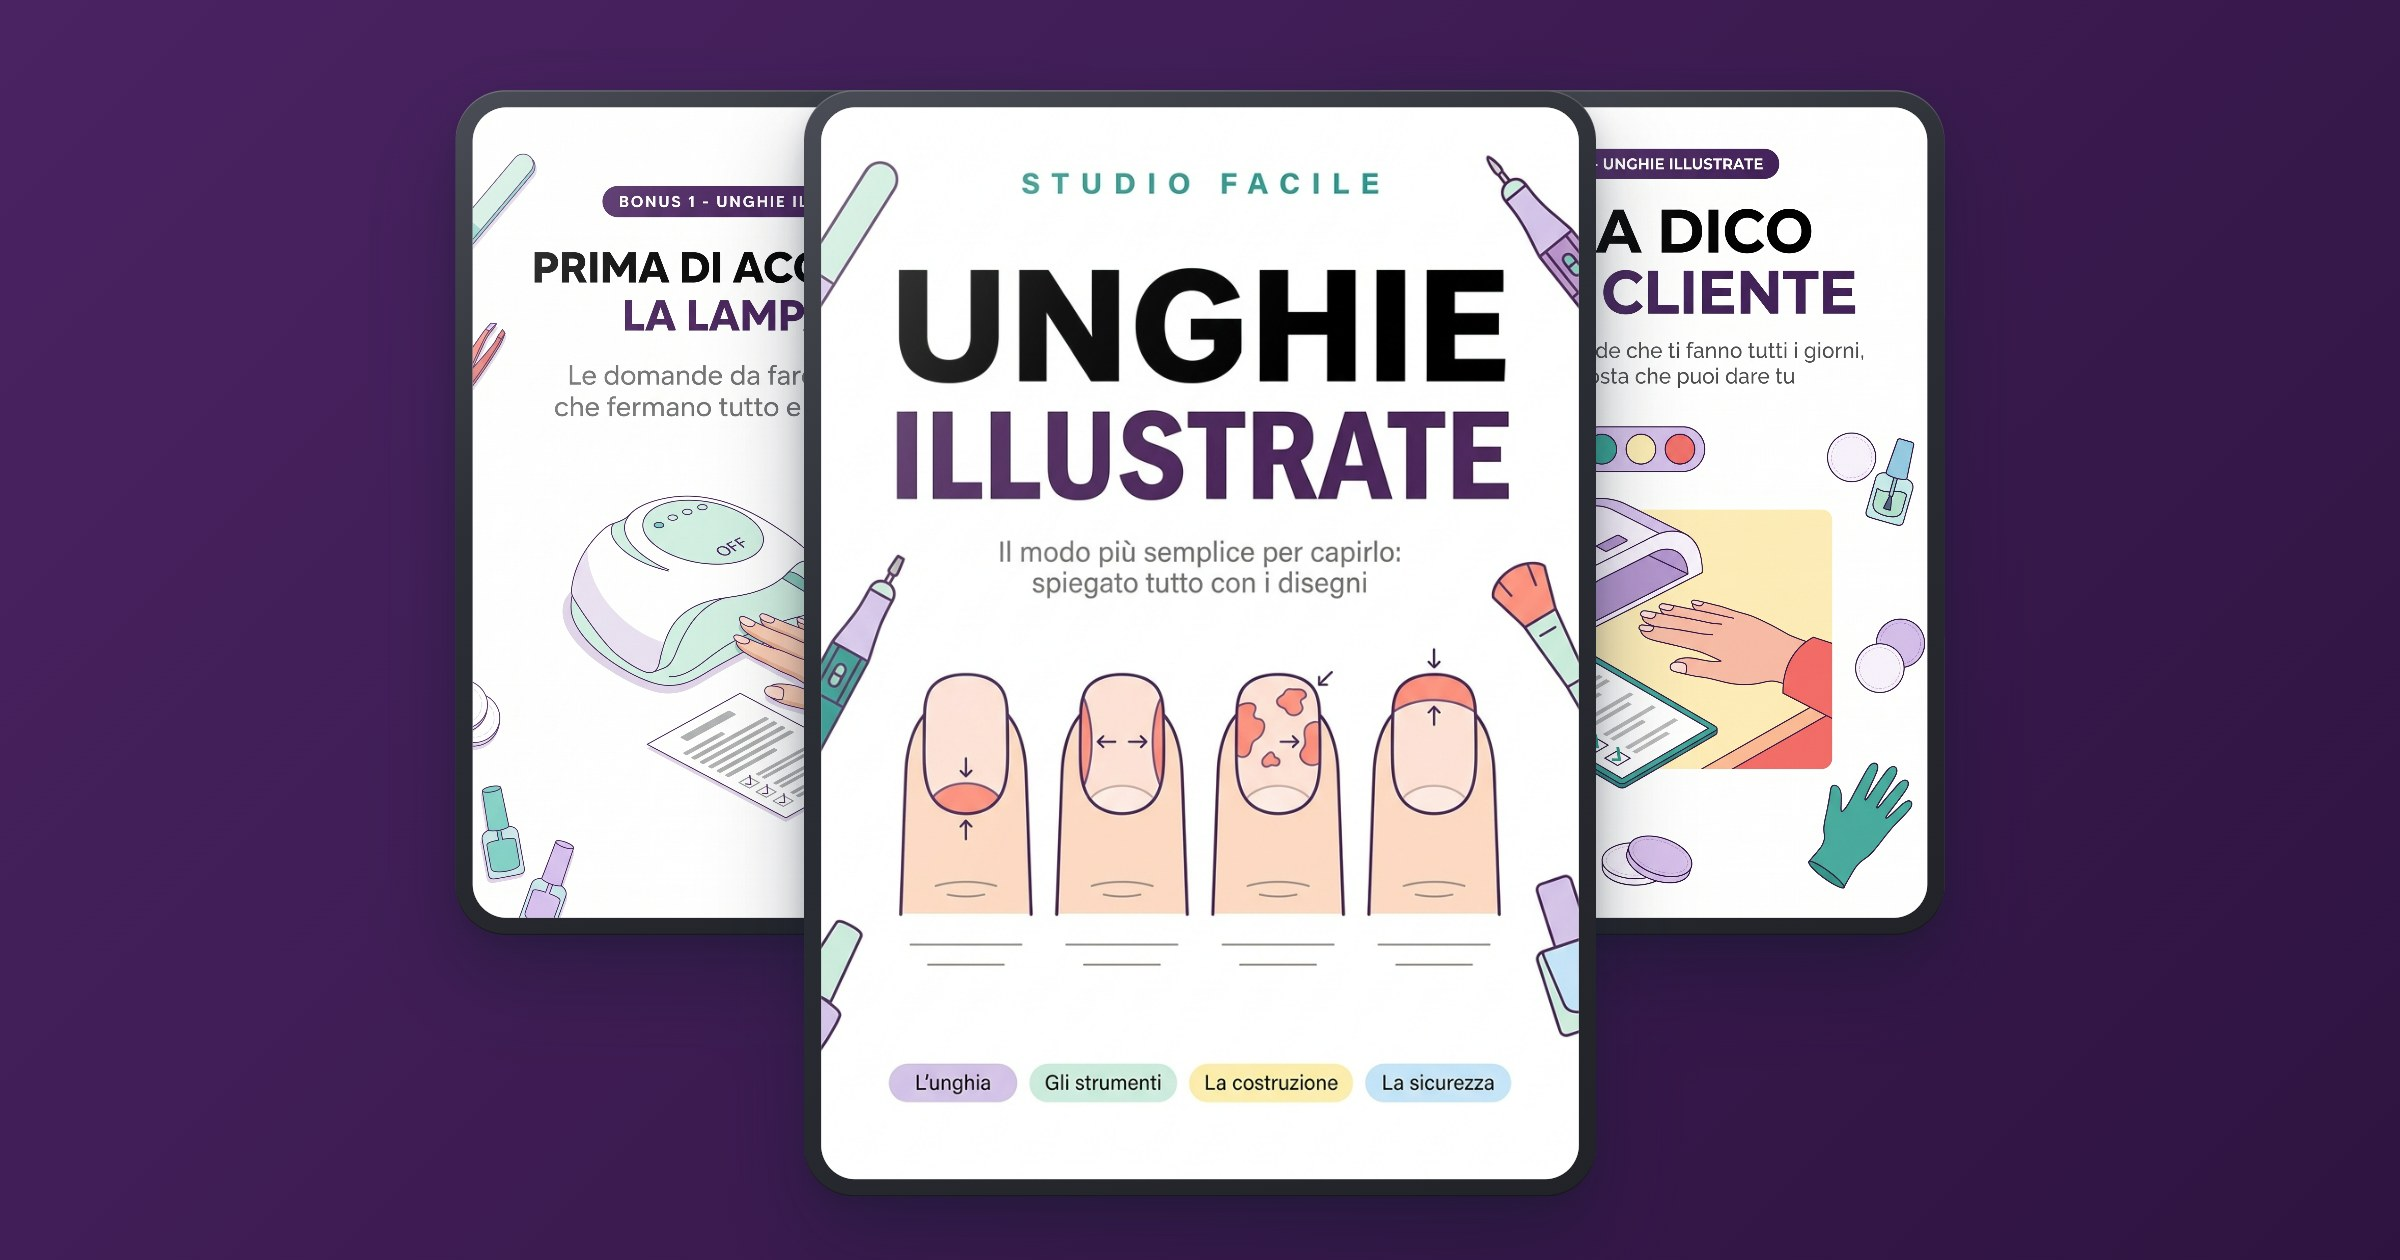
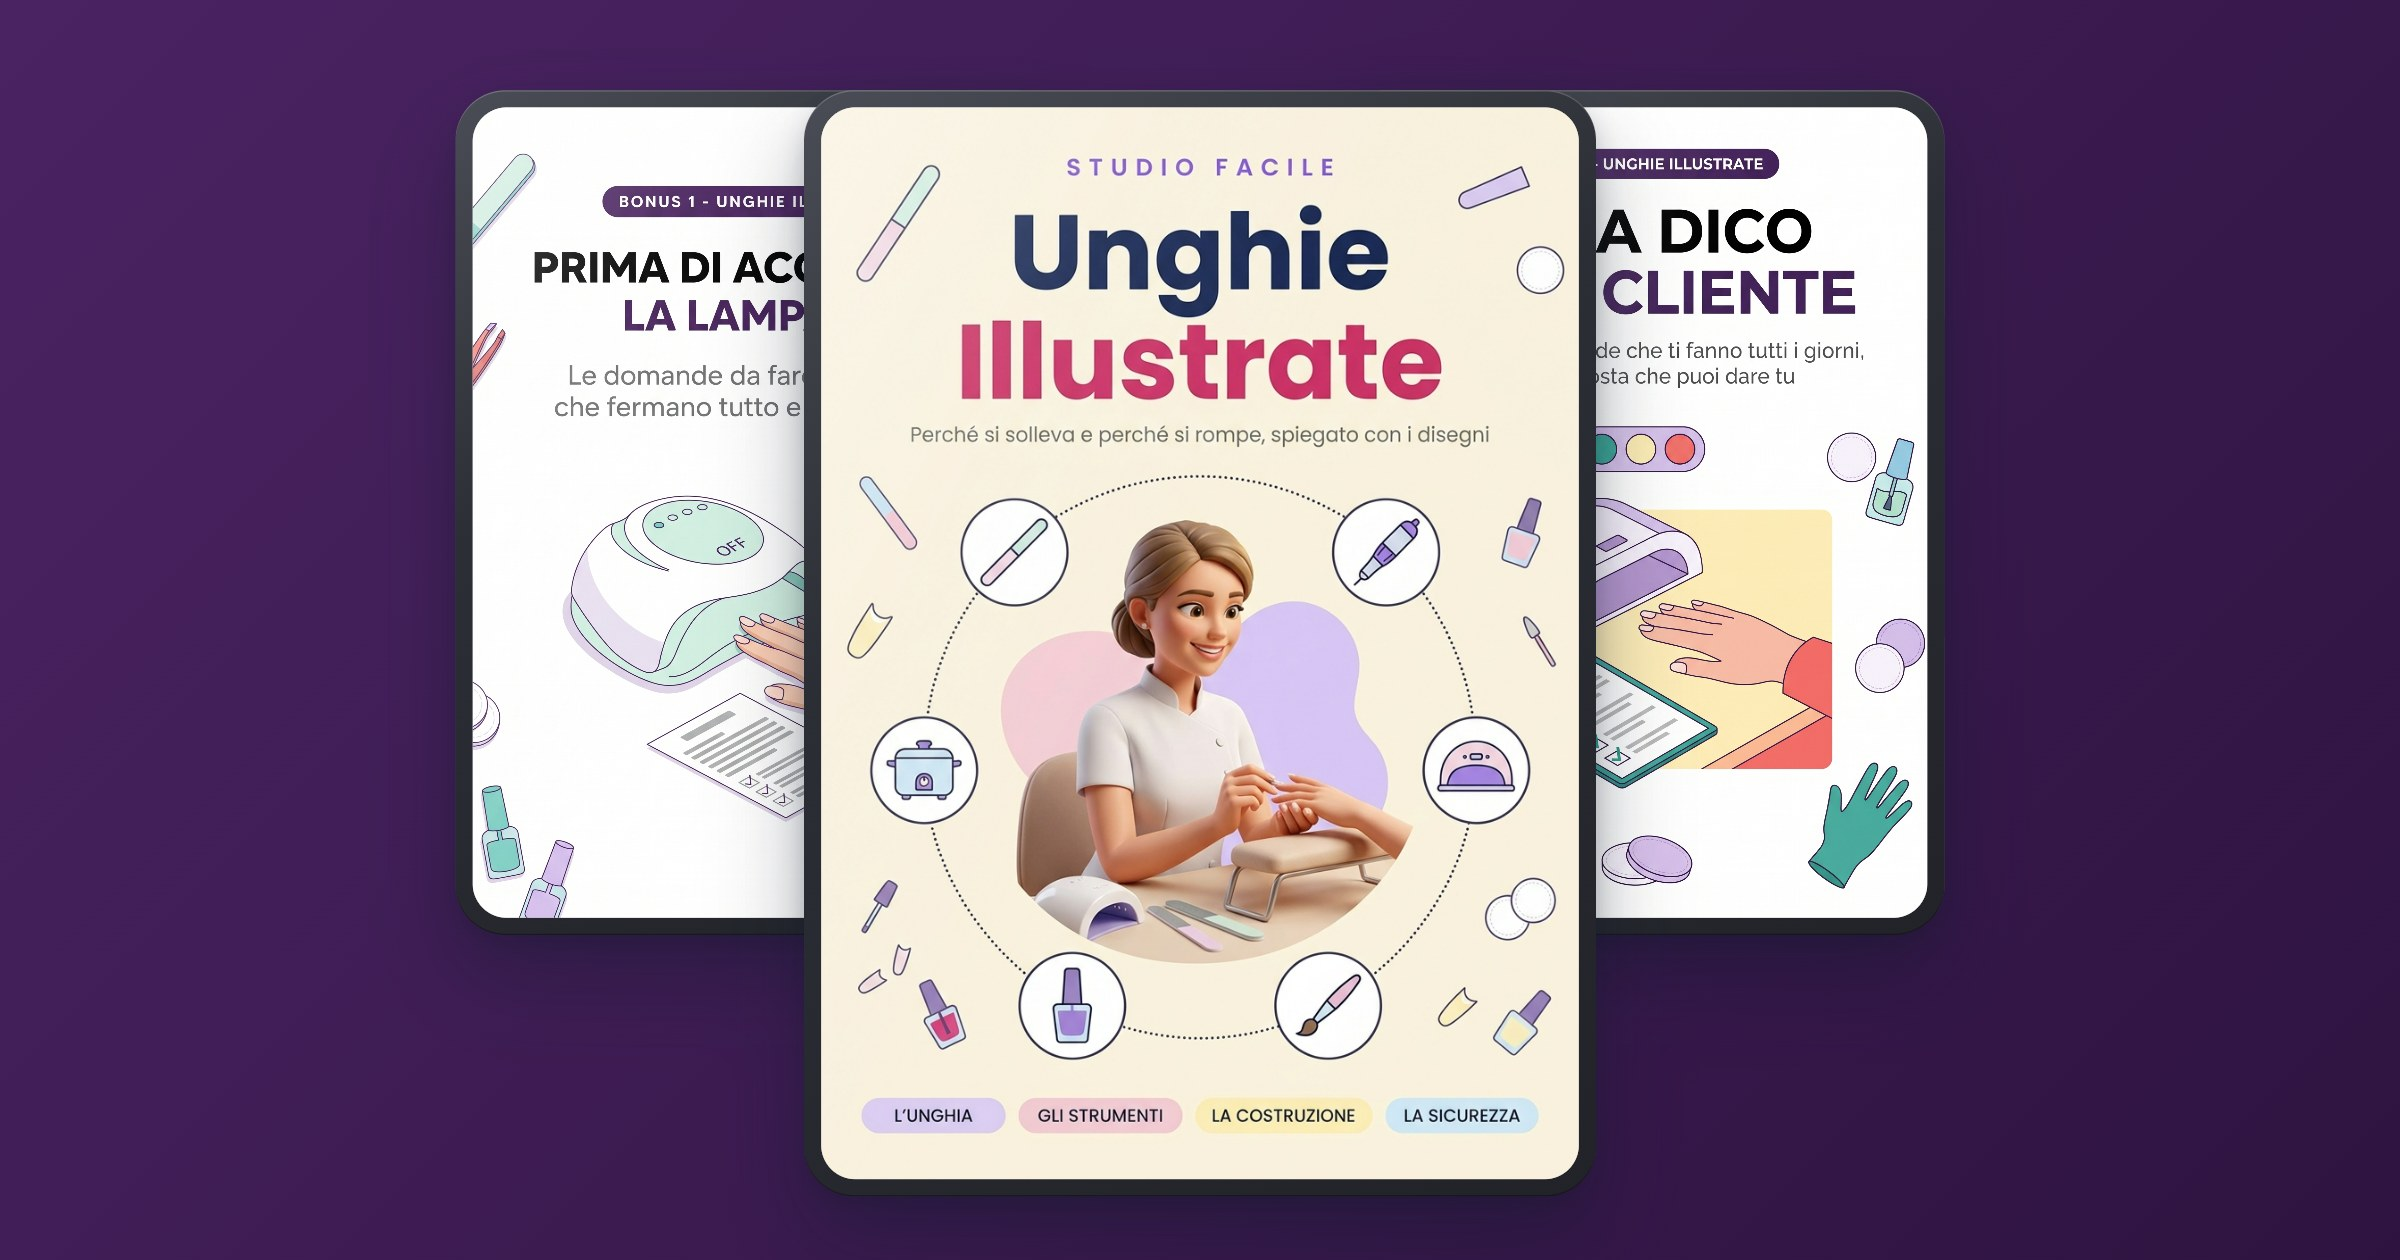
Unghie Illustrate: la copertina scelta, nello stile della collana
Scelta di Luca fra nove prove. Le prime sei erano diagrammi su fondo
bianco e le tre dopo mettevano in mano alla ragazza un modello enorme:
nessuna delle due cose assomiglia alle altre copertine di Studio Facile.

Li' la faccia e' sempre la stessa — fondo crema, «STUDIO FACILE» viola
spaziato, titolo su due righe, sottotitolo grigio nella forma «<tema>
spiegato con i disegni», un personaggio 3D a mezzo busto, due macchie
morbide dietro, l'anello di icone tonde con la linea punteggiata e una
sola riga di pastiglie in fondo. E soprattutto: l'oggetto in mano e' una
cosa vera della sua misura vera. In «Odontoiatria» e' un dente, grande
come un dente; in «Leggere l'ECG» e' una striscia di tracciato.

Questa tiene quella faccia e cambia le due cose che servono a questo
libro: al centro c'e' una donna, perche' chi compra e' una donna fra i
25 e i 44 anni e su tutte le altre copertine c'e' un ragazzo; e la scena
e' il lavoro vero, lei al tavolo con la mano di una cliente sul
poggiamano, la lampada e le lime.

Resta detto, perche' e' una cosa che si vede solo in piccolo: in questa
la ragazza e' dentro una vignetta ovale e occupa poco spazio, quindi
nella miniatura del feed la faccia e le unghie non si leggono. Il
sottotitolo invece regge, ed e' quello che ripete l'H1 della landing.

Changed region(s): [[0.3438, 0.0619, 0.6562, 0.9595]]

diff --git a/unghie.html b/unghie.html
@@ -2149,7 +2149,7 @@
   <section class="hero">
     <div class="hero-content">
       <div class="hero-mockup">
-        <img src="https://czocbnyoenjbpxmcqobn.supabase.co/storage/v1/object/public/algoritmia-img/studiofacile/mockups/unghie/hero.webp?v=3fe60e36" alt="Unghie Illustrate, con Prima di Accendere la Lampada e Cosa Dico alla Cliente in regalo"
+        <img src="https://czocbnyoenjbpxmcqobn.supabase.co/storage/v1/object/public/algoritmia-img/studiofacile/mockups/unghie/hero.webp?v=31df0f38" alt="Unghie Illustrate, con Prima di Accendere la Lampada e Cosa Dico alla Cliente in regalo"
              width="1200" height="886" loading="eager" fetchpriority="high" decoding="async">
       </div>
       <p class="hero-social">
@@ -2383,7 +2383,7 @@
     <div class="container">
       <h2 class="text-center">Ecco Cosa Riceverai Acquistando Unghie Illustrate:</h2>
       <div style="margin: 20px auto 28px;">
-        <img src="https://czocbnyoenjbpxmcqobn.supabase.co/storage/v1/object/public/algoritmia-img/studiofacile/mockups/unghie/combo.webp?v=be610776" alt="Unghie Illustrate: mockup con pagine di esempio" width="1100" height="1620" loading="lazy" decoding="async" style="max-width: 480px; width: 100%; display: block; margin: 0 auto;">
+        <img src="https://czocbnyoenjbpxmcqobn.supabase.co/storage/v1/object/public/algoritmia-img/studiofacile/mockups/unghie/combo.webp?v=e88314dc" alt="Unghie Illustrate: mockup con pagine di esempio" width="1100" height="1620" loading="lazy" decoding="async" style="max-width: 480px; width: 100%; display: block; margin: 0 auto;">
       </div>
       <div class="topics-grid">
         <div class="topic-item">
@@ -2462,7 +2462,7 @@
 
       <!-- DECISION BOX -->
       <div class="decision-box" id="offerta">
-        <img src="https://czocbnyoenjbpxmcqobn.supabase.co/storage/v1/object/public/algoritmia-img/studiofacile/mockups/unghie/hero.webp?v=3fe60e36" alt="Unghie Illustrate con i due volumi in regalo" class="db-mockup" width="1200" height="886" loading="lazy" decoding="async">
+        <img src="https://czocbnyoenjbpxmcqobn.supabase.co/storage/v1/object/public/algoritmia-img/studiofacile/mockups/unghie/hero.webp?v=31df0f38" alt="Unghie Illustrate con i due volumi in regalo" class="db-mockup" width="1200" height="886" loading="lazy" decoding="async">
         <h3 class="db-title">Unghie Illustrate + 2 Volumi in Regalo</h3>
         <ul class="db-checklist">
           <li><span class="db-check"><svg viewBox="0 0 24 24"><polyline points="20 6 9 17 4 12"/></svg></span>Unghie Illustrate: 84 pagine illustrate<span class="db-price-val">58,20€</span></li>
